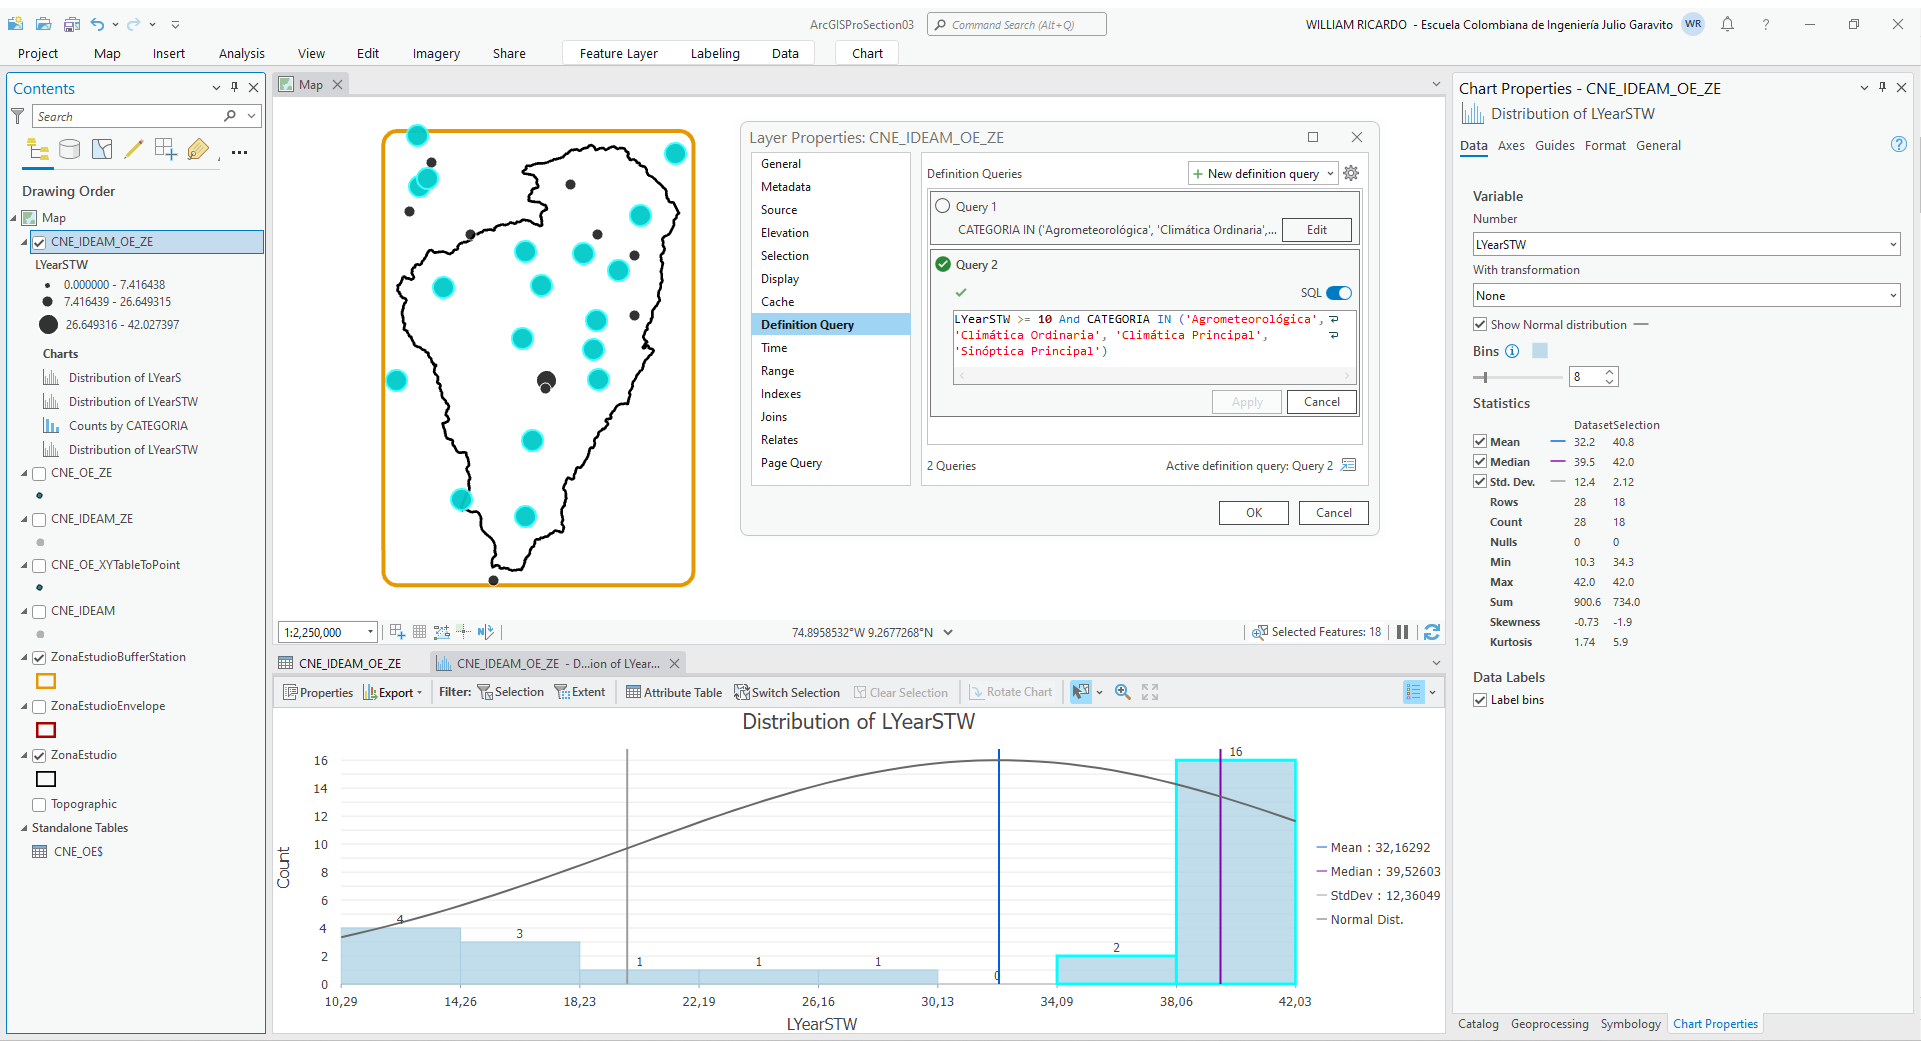
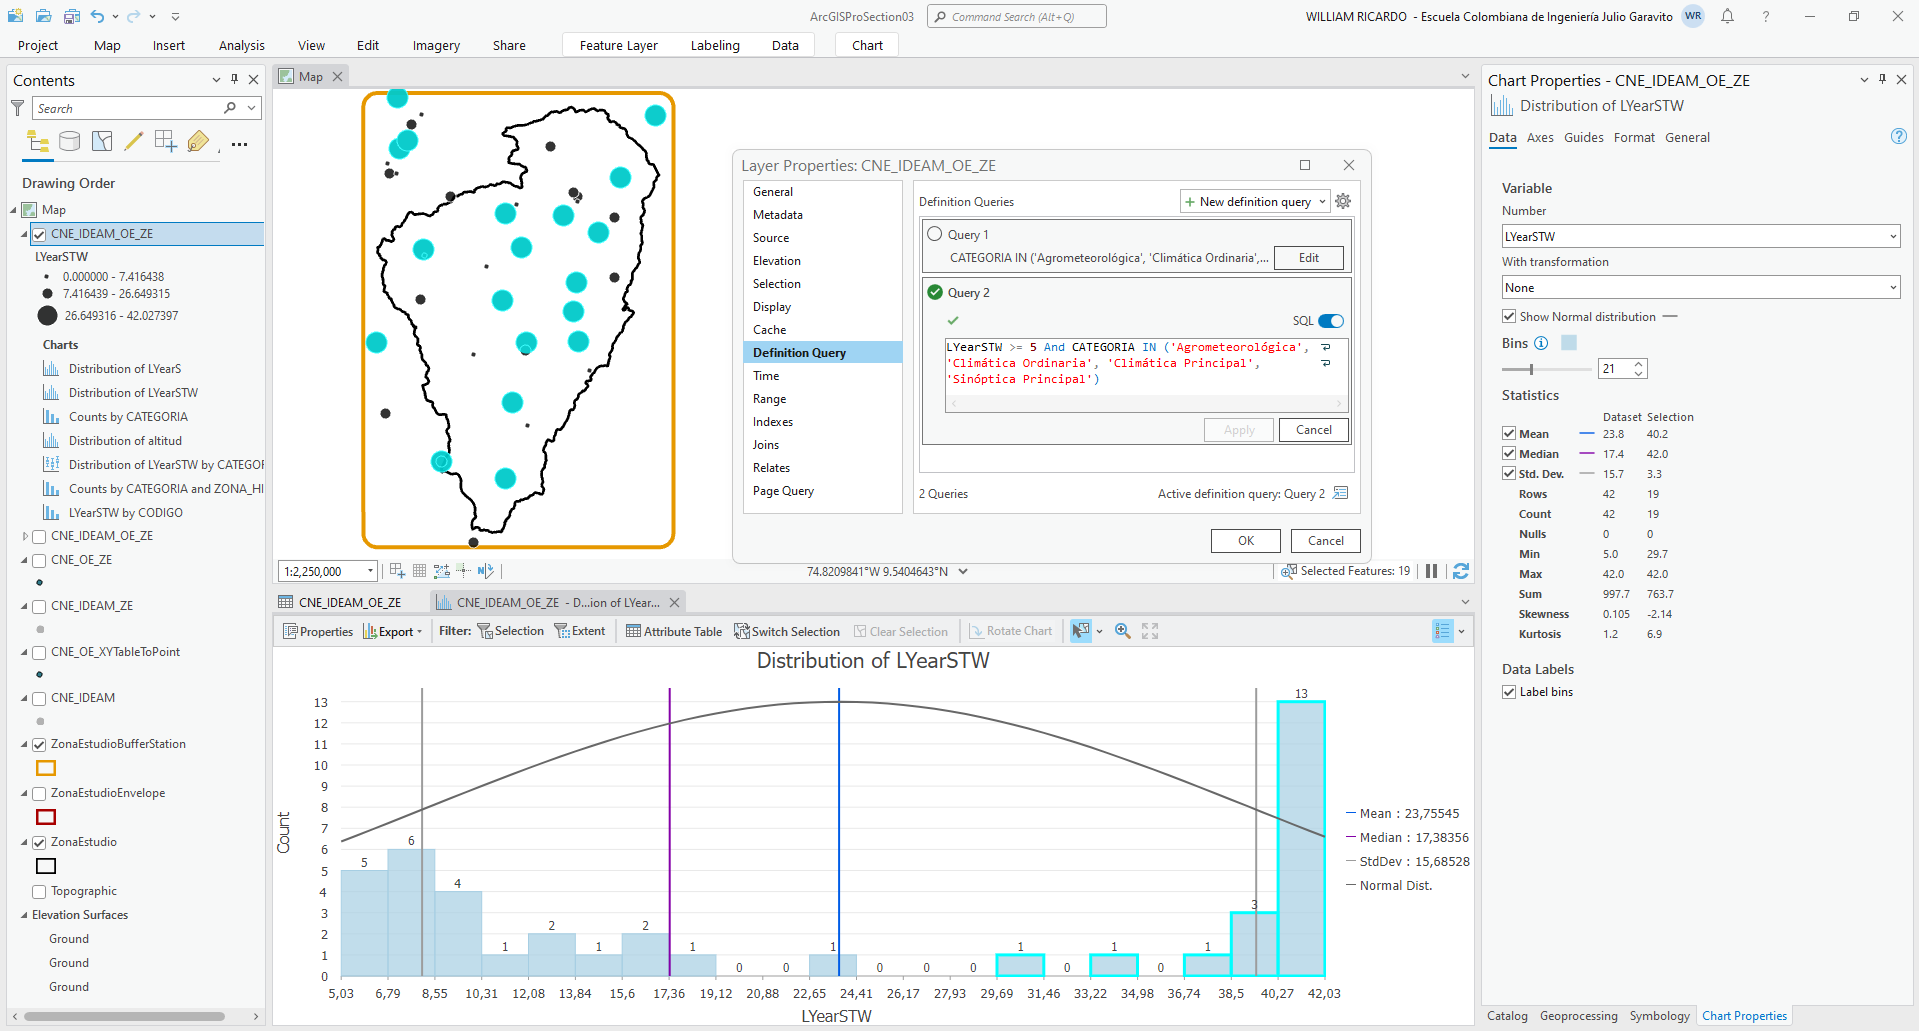
General update.

diff --git a/Section03/CNEStation/Readme.md b/Section03/CNEStation/Readme.md
@@ -19,7 +19,7 @@ Luego de la definición del caso de estudio realizada en la Sección 1, es neces
 * Seleccionar, exportar e integrar las estaciones del IDEAM y de otras entidades dentro del polígono aferente definido.
 * Calcular la longitud hipotética de las series a partir de la fecha de instalación y suspensión de las estaciones utilizando Python Script.
 * Calcular la longitud hipotética de las series dentro de una ventana de tiempo establecida a partir de la fecha de instalación y suspensión de las estaciones utilizando Python Script.
-* Identificar, representar, graficar y analizar las longitudes hipotéticas de series para estaciones que contienen datos de precipitación, temperatura del aire cerca del suelo, evaporación potencial y nivel de lámina y caudal en ríos.
+* Identificar, representar, graficar y analizar las longitudes hipotéticas de series para estaciones que contienen datos de precipitación, temperatura del aire cerca del suelo, evaporación potencial, nivel de lámina y caudal en ríos.
 
 
 ### Requerimientos
@@ -86,6 +86,7 @@ Tomado de [Anexo 2 - Definiciones CNE](http://www.ideam.gov.co/documents/10182/5
 | Estación Radio Sonda             |  RS   | La estación de radiosonda tiene por finalidad la medición directa de parámetros atmosféricos tales como temperatura del aire, presión atmosférica, humedad relativa y dirección y velocidad del viento en las capas altas de la atmósfera (tropósfera y baja estratósfera), mediante el rastreo, por medios electrónicos, de la trayectoria de un globo meteorológico que asciende libremente y que lleva un dispositivo con los sensores que miden y transmiten la señal con los datos.                            |
 | Estación Sinóptica Principal     |  SP   | En este tipo de estación se efectúan observaciones de los principales elementos meteorológicos en horas convenidas internacionalmente. Los datos se toman horariamente y corresponden a nubosidad, dirección y velocidad de los vientos, presión atmosférica, temperatura del aire, tipo y altura de las nubes, visibilidad, fenómenos especiales, características de humedad, precipitación, temperaturas extremas, capas significativas de nubes, recorrido del viento y secuencia de los fenómenos atmosféricos. |
 | Estación Sinóptica Secundaria    |  SS   | Al igual que en la estación anterior, las observaciones se realizan a horas convenidas internacionalmente y los datos corresponden comúnmente a visibilidad, fenómenos especiales, tiempo atmosférico, nubosidad, estado del suelo, precipitación, temperatura del aire, humedad del aire, presión y viento.                                                                                                                                                                                                        |
+> Las abreviaturas contenidas en la columna Abrv., han sido definidas por [rcfdtools](https://github.com/rcfdtools) con el propósito de simplificar las cabeceras incluidas en la tabla de observaciones por tipo de estación.
 
 
 #### Observaciones según la categoría de la estación :new:
@@ -247,13 +248,13 @@ Para conocer el tamaño de la extensión de _ZonaEstudioEnvelope.shp_, clic dere
 
 ![R.LTWB](https://github.com/rcfdtools/R.LTWB/blob/main/Section03/CNEStation/Screenshot/ArcGISPro3.0.0SelectByLocation.png)
 
-8. Exporte las estaciones seleccionadas a nuevas capas geográficas, clic derecho en CNE_IDEAM / _Data / Export Features_ y nombrar como _[CNE_IDEAM_ZE.shp](https://github.com/rcfdtools/R.LTWB/blob/main/.shp/CNE_IDEAM_ZE.zip)_ dentro de la carpeta _.shp_. Repita este procedimiento para la capa de eventos de las estaciones de otras entidades y nombre como _[CNE_OE_ZE.shp](https://github.com/rcfdtools/R.LTWB/blob/main/.shp/CNE_OE_ZE.zip)_.
-
-> En ArcGIS for Desktop, el procedimiento de exportación se realiza dando clic derecho en la capa y seleccionando la opción _Data / Export Data_. Para el caso de la capa de eventos de las estaciones de otras entidades, se recomienda primiero exportar la capa de eventos en un archivo Shapefile y luego efectuar la selección y exportación de las estaciones de la zona de estudio.
+8. Exporte las estaciones seleccionadas a nuevas capas geográficas, clic derecho en CNE_IDEAM / _Data / Export Features_ y nombre como _[CNE_IDEAM_ZE.shp](https://github.com/rcfdtools/R.LTWB/blob/main/.shp/CNE_IDEAM_ZE.zip)_ dentro de la carpeta _.shp_. Repita este procedimiento para la capa de eventos de las estaciones de otras entidades y nombre como _[CNE_OE_ZE.shp](https://github.com/rcfdtools/R.LTWB/blob/main/.shp/CNE_OE_ZE.zip)_.
 
 ![R.LTWB](https://github.com/rcfdtools/R.LTWB/blob/main/Section03/CNEStation/Screenshot/ArcGISPro3.0.0CNE_IDEAM_ZEExportFeatures.png)  
 ![R.LTWB](https://github.com/rcfdtools/R.LTWB/blob/main/Section03/CNEStation/Screenshot/ArcGISPro3.0.0CNE_OE_ZEExportFeatures.png)  
 ![R.LTWB](https://github.com/rcfdtools/R.LTWB/blob/main/Section03/CNEStation/Screenshot/ArcGISPro3.0.0CNEZEExportFeaturesMap.png)
+
+> En ArcGIS for Desktop, el procedimiento de exportación se realiza dando clic derecho en la capa y seleccionando la opción _Data / Export Data_. Para el caso de la capa de eventos de las estaciones de otras entidades, se recomienda primero exportar la capa de eventos en un archivo Shapefile y luego efectuar la selección y exportación de las estaciones de la zona de estudio.
 
 9. Con la herramienta _Geoprocessing / Data Management Tools / General / Merge_, combine los archivos de formas _CNE_IDEAM_ZE.shp_ y _CNE_OE_ZE.shp_ en un único archivo y nombre como _[CNE_IDEAM_OE_ZE.shp](https://github.com/rcfdtools/R.LTWB/blob/main/.shp/CNE_IDEAM_OE_ZE.zip)_. Asegúrese de marcar la casilla `Add source information to output` para obtener el campo de atributos `MERGE_SRC` que describe la capa fuente y de clic en la opción _Reset_ ubicada a la derecha de `Field Map` . La red de estaciones contendrá en total 440 estaciones (315 IDEAM + 125 otras entidades).
 
@@ -264,7 +265,7 @@ Para conocer el tamaño de la extensión de _ZonaEstudioEnvelope.shp_, clic dere
 
 10. Una vez obtenida la red de estaciones integrada sobre la zona de estudio, es necesario estudiar la longitud hipotética de las series a partir de las fechas de instalación y suspensión registradas en el catálogo. 
 
-> Este procedimiento es importante debido a que para la descarga de las series de datos registradas en las estaciones, es necesario primero conocer la homogeneidad en las longitudes hipotética de los registros que deberían tener las estaciones a partir de su fecha de puesta en operación y recolección de datos. Por ejemplo, si la mayoría de las estaciones tienen un registro continuo y actual de al menos 20 años y en las estaciones de la zona de estudio existen estaciones recientes o antiguas suspendidas con registros cortos (p. ej. 5 años), se podrían descartar estas estaciones del análisis, siempre y cuando no correspondan a estaciones en la zona de frontera geográfica de la zona en estudio.
+> Este procedimiento es importante debido a que para la descarga de las series de datos registradas en las estaciones, es necesario primero conocer la homogeneidad en las longitudes hipotéticas de los registros que deberían tener las estaciones a partir de su fecha de puesta en operación y recolección de datos. Por ejemplo, si la mayoría de las estaciones tienen un registro continuo y actual de al menos 20 años y en las estaciones de la zona de estudio existen estaciones recientes o antiguas suspendidas con registros cortos (p. ej. 5 años), se podrían descartar estas estaciones del análisis, siempre y cuando no correspondan a estaciones en la zona de frontera geográfica de la zona en estudio.
 
 En la capa _CNE_IDEAM_OE_ZE.shp_, crear los siguientes campos de atributos:
 
@@ -281,13 +282,13 @@ En la tabla de atributos dar clic en el botón _Field: Add_ y desde el modo de e
 
 **Cálculo independiente del campo LYears**
 
-El cálculo del campo `LYearS` puede ser realizado dando clic en la cabecera del campo y seleccionando la opción _Calculate Field_ utilizando la instrucción Python 3 `(!FECHA_INST!-!FECHA_SUSP!)/365`, sin embargo, no podrá ser aplicada a estaciones que se encuentran suspendidas debido a que el campo fecha de suspensión contendrá valores nulos, por lo que Python devolverá un error y no realizará el cálculo solicitado.
+El cálculo del campo `LYearS` puede ser realizado dando clic en la cabecera del campo y seleccionando la opción _Calculate Field_ utilizando la instrucción Python 3 `(!FECHA_INST!-!FECHA_SUSP!)/365`, sin embargo, no podrá ser aplicada a estaciones que se encuentran suspendidas debido a que el campo fecha de suspensión contendrá valores nulos, por lo que Python devolverá un error y no realizará el cálculo solicitado. Igual sucede con el campo fecha de instalación cuando este se encuentra nulo, la operación de cálculo no podrá ser completada.
 
 ![R.LTWB](https://github.com/rcfdtools/R.LTWB/blob/main/Section03/CNEStation/Screenshot/ArcGISPro3.0.0CalculareFieldLYearSError.png)
 
 > En ArcGIS for Desktop puede usar la expresión VBScript `( [FECHA_SUSP] - [FECHA_INST] )/365`.
 
-Configuración regional requerida: en el _Panel de Control / Region_, establezca el formato de fechas cortas como d/MM/yyyy.
+Para el correcto análisis de los campos fecha de instalación y fecha de suspensión, la configuración regional requerida debe ser definida desde el _Panel de Control / Region_, estableciendo el formato de fechas cortas como d/MM/yyyy.
 
 ![R.LTWB](https://github.com/rcfdtools/R.LTWB/blob/main/Section03/CNEStation/Screenshot/Windows11ControlPanlRegionFormat.png)
 
@@ -321,12 +322,12 @@ len_years_serie(!FECHA_INST!, !FECHA_SUSP!)
 
 ![R.LTWB](https://github.com/rcfdtools/R.LTWB/blob/main/Section03/CNEStation/Screenshot/ArcGISPro3.0.0CalculareFieldLYearSPython.png)
 
-En ArcGIS for Desktop pudede dar clic derecho sobre la cabecera del campo `LYearS` y seleccionar la opción _Field Calculator_ o desde _ArcToolBox / Data Management Tools / Fields / Calculate Field_.
+> En ArcGIS for Desktop pude dar clic derecho sobre la cabecera del campo `LYearS` y seleccionar la opción _Field Calculator_ o desde _ArcToolBox / Data Management Tools / Fields / Calculate Field_.
 
 ![R.LTWB](https://github.com/rcfdtools/R.LTWB/blob/main/Section03/CNEStation/Screenshot/ArcGISDesktop10.2.2CalculareFieldLYearSPython.png)
 ![R.LTWB](https://github.com/rcfdtools/R.LTWB/blob/main/Section03/CNEStation/Screenshot/ArcGISDesktop10.2.2CalculareFieldLYearSPythonA.png)
 
-> La variable booleana `is_python3` es utilizada para definir la versión de Python desde la cual se hace el llamado del Script.
+> En el script, la variable booleana `is_python3` es utilizada para definir la versión de Python desde la cual se hace el llamado del Script.
 > 
 > Python 2 sobre ArcGIS for Desktop transfiere como texto las variables FECHA_INST y FECHA_SUSP en formato unicode, es por ello que deben ser convertidas a formato de fecha para poder calcular la diferencia en días. Cuando en la tabla de atributos las fechas son almacenadas como cadenas de texto, puede definir la variable `is_python3 = False` para realizar el cálculo de diferencias en Python 2 o 3.
 
@@ -467,7 +468,7 @@ Para el desarrollo del caso de estudio, utilizaremos las estaciones con registro
 
 ### Identificación de estaciones con datos de temperatura del aire cerca al suelo
 
-En el caso específico de la temperatura del áire cerca a la superficie del suelo, los registros pueden ser obtenidos de estaciones Agrometeorológicas, Climatológicas Ordinarias, Climatológicas Principales, Sinópticas Principales y Sinópticas Secundarias.
+En el caso específico de la temperatura del aire cerca a la superficie del suelo, los registros pueden ser obtenidos de estaciones Agrometeorológicas, Climatológicas Ordinarias, Climatológicas Principales, Sinópticas Principales y Sinópticas Secundarias.
 
 Desde las propiedades de la capa _CNE_IDEAM_OE_ZE.shp_ y a través del _Definition Query_, filtre las estaciones de las categorías indicadas y represente por símbolos graduados en 3 clases por cortes naturales a partir de las longitudes hipotéticas de series dentro de la ventana de tiempo calculada en el campo `LYearSTW`. Visualice a escala 1:2,250,000 (en monitores FHD 1920 x 1080p). Podrá observar que para las categorías indicadas se obtienen 71 estaciones.
 
@@ -555,7 +556,7 @@ Utilizando la herramienta Table to Table, exporte xxxxxxxxxxxxxxxx
 
 ### Actividades complementarias:student:
 
-En la siguiente tabla se listan las actividades complementarias que deben ser desarrolladas y documentadas por el estudiante en un único archivo de Adobe Acrobat .pdf incluyendo portada (mostrar nombre completo, código y enlace a su cuenta de GitHub), tabla de contenido, lista de tablas, lista de ilustraciones, introducción, objetivo general, capítulos por cada ítem solicitado, conclusiones y referencias bibliográficas.
+En la siguiente tabla se listan las actividades complementarias que deben ser desarrolladas y documentadas por el estudiante en un único archivo de Adobe Acrobat .pdf, incluyendo portada (mostrar nombre completo, código y enlace a su cuenta de GitHub), tabla de contenido, lista de tablas, lista de ilustraciones, introducción, objetivo general, capítulos por cada ítem solicitado, conclusiones y referencias bibliográficas.
 
 | Actividad  | Alcance                                                                                                                                                                                                                                                                            |
 |:----------:|:-----------------------------------------------------------------------------------------------------------------------------------------------------------------------------------------------------------------------------------------------------------------------------------|
@@ -572,7 +573,7 @@ En la siguiente tabla se listan las actividades complementarias que deben ser de
 
 | Versión    | Descripción                                                                                                                                                                                                                                                                                                                                  | Autor                                      | Horas |
 |------------|:---------------------------------------------------------------------------------------------------------------------------------------------------------------------------------------------------------------------------------------------------------------------------------------------------------------------------------------------|--------------------------------------------|:-----:|
-| 2022.08.04 | Gráficos de análisis de estaciones con registros de precipitación para longitudes hipotéticas mayores a 10, 15, 20, 25, 30, 35 años. Análisis de temperatura, evaporación potencial y altura de lámina de agua para longitudes >= 5 años. Documentación.                                                                                     | [rcfdtools](https://github.com/rcfdtools)  |   6   |
+| 2022.08.04 | Gráficos de análisis de estaciones con registros de precipitación para longitudes hipotéticas mayores a 10, 15, 20, 25, 30, 35 años. Análisis de temperatura, evaporación potencial y altura de lámina de agua para longitudes >= 5 años. Documentación. Solución de errores. Actividades complementarias.                                   | [rcfdtools](https://github.com/rcfdtools)  |   6   |
 | 2022.08.03 | Cálculo de longitud hipotética de series dentro de la ventana de tiempo definida sobre Python 2 y 3 en ArcGIS for Desktop y ArcGIS Pro. Gráficas de análisis genera de series. Documentación.  Tabla con tipos de observaciones que pueden ser realizadas por las estaciones dependiendo de su categoría.                                    | [rcfdtools](https://github.com/rcfdtools)  |  4.5  |
 | 2022.08.02 | Definición de longitud de aferencia a partir de la menor dimensión horizontal o vertical, creación de buffer, selección de estaciones por localización, exportación de estaciones IDEAM y otras entidades, unión de estaciones en capa única, cálculo de longitud hipotética de serie sobre Python 2 y 3 en ArcGIS for Desktop y ArcGIS Pro. | [rcfdtools](https://github.com/rcfdtools)  |   6   |
 | 2022.08.31 | Versión inicial con descarga CNE IDEAM y otras entidades, revisión catálogo de objetos.                                                                                                                                                                                                                                                      | [rcfdtools](https://github.com/rcfdtools)  |   4   |
